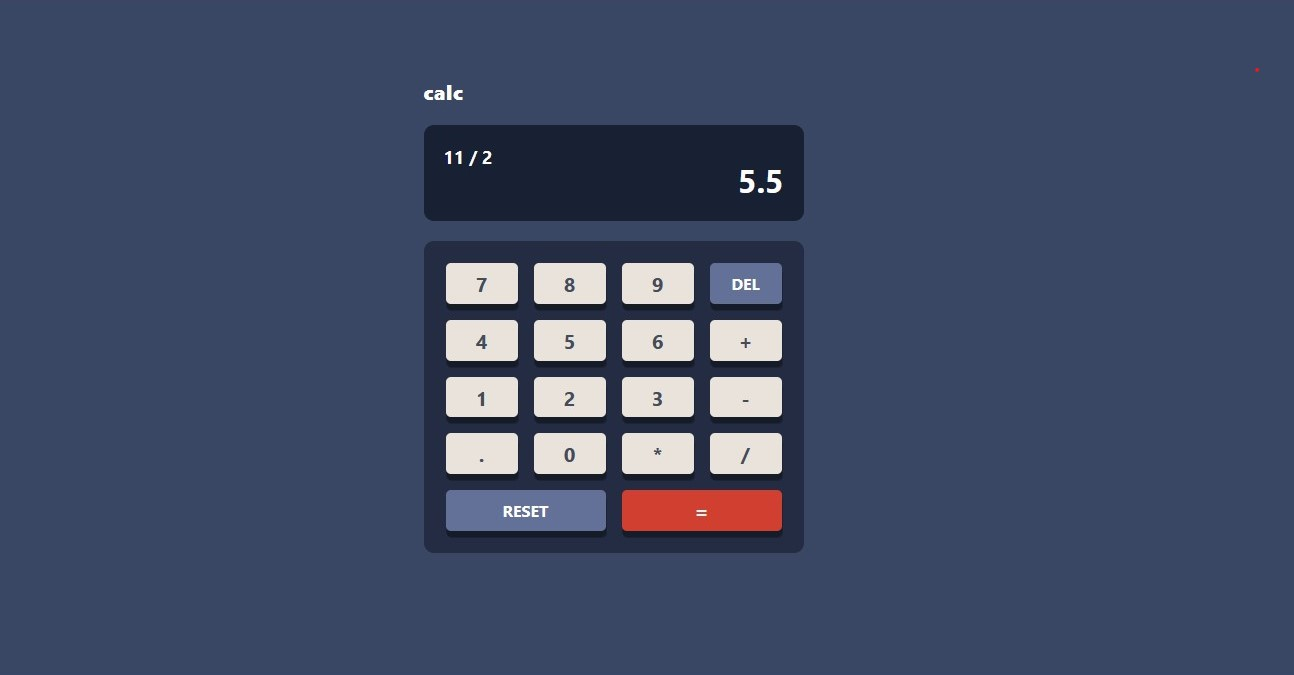
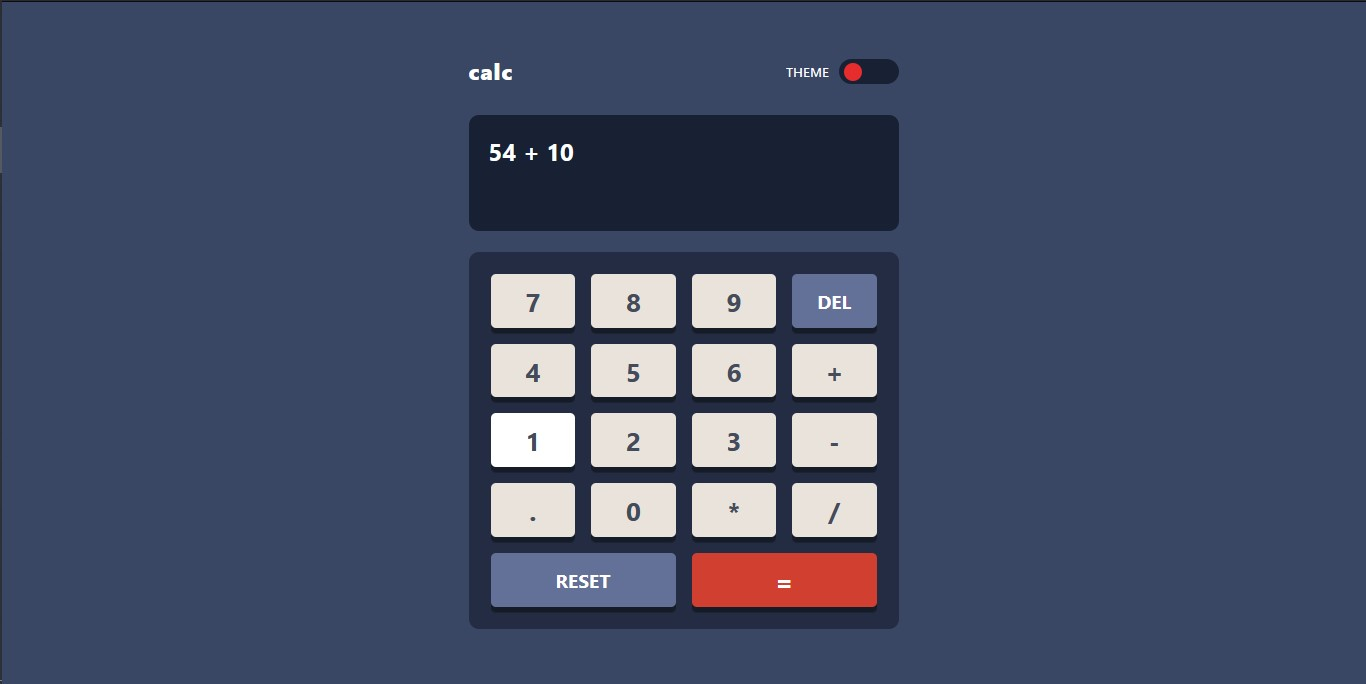
Addeed mobile design and  theme switching

Changed region(s): [[0.3091, 0.0933, 0.6801, 0.9333], [0.5564, 0.0622, 0.6801, 0.1244], [0.0, 0.0, 0.0309, 0.0311]]

diff --git a/src/index.css b/src/index.css
@@ -10,14 +10,19 @@ body {
 }
 
 .view-area {
+  display: flex;
+  flex-direction: column;
+  align-content: center;
+  justify-content: center;
   height: 100vh;
   background-color: hsl(222, 26%, 31%);
   color: white;
+  transition: background-color 0.8s cubic-bezier(0.19, 1, 0.22, 1);
 }
 
 .view-area.light {
   background-color: hsl(0, 0%, 90%);
-  color: hsl(60, 10%, 19%);
+  color: hsl(60, 10%, 10%);
 }
 
 .view-area.neon {
@@ -27,35 +32,52 @@ body {
 
 .calc-container {
   display: flex;
+  margin: auto;
   gap: 1rem;
   flex-wrap: wrap;
   position: relative;
-  margin: auto;
   min-width: 300px;
-  max-width: 400px;
-  height: 500px;
-  top: 70px;
+  max-width: 450px;
+  height: 600px;
   padding: 10px;
 }
 
 .calc-header {
-  display: flex;
-  flex-direction: row;
+  display: grid;
+  grid-template-columns: 2fr 1fr;
   align-items: center;
   width: 100%;
+  margin-bottom: 10px;
+}
+
+.calc-theme-container {
+  display: flex;
+  align-items: center;
+  flex: 1;
+  justify-content: flex-end;
 }
 
 .calc-name {
-  font-size: 20px;
+  font-size: 1.4rem;
   letter-spacing: 0.7px;
   font-weight: 800;
 }
 
+.calc-theme-text {
+  font-size: 0.8rem;
+  padding-right: 10px;
+  text-transform: uppercase;
+  font-weight: 600;
+}
+
 .calc-theme-switcher {
-  width: 100px;
-  height: 30px;
-  border-radius: 5px;
+  display: flex;
+  align-items: center;
+  width: 60px;
+  height: 25px;
+  border-radius: 15px;
   background-color: hsl(224, 36%, 15%);
+  padding: 5px;
 }
 
 .calc-theme-switcher.light {
@@ -74,14 +96,33 @@ body {
   transform: scale(0.9, 0.9);
 }
 
+.calc-theme-toggler {
+  transform: translateY(6%);
+  border-radius: 50%;
+  width: 18px;
+  height: 18px;
+  background-color: rgb(230, 45, 45);
+  transition: all cubic-bezier(0.19, 1, 0.22, 1) 0.6s;
+}
+
+.calc-theme-toggler.light {
+  background-color: hsl(25, 98%, 40%);
+  transform: translateX(90%);
+}
+
+.calc-theme-toggler.neon {
+  transform: translateX(170%);
+  background-color: hsl(176, 100%, 44%);
+}
+
 .calc-display {
   position: relative;
   width: 100%;
   height: 20%;
   background-color: hsl(224, 36%, 15%);
   border-radius: 10px;
-  overflow-x: auto;
-  overflow-y: hidden;
+  /* overflow-x: auto;
+  overflow-y: hidden; */
 }
 
 .calc-display.light {
@@ -93,18 +134,18 @@ body {
   background-color: hsl(268, 71%, 12%);
 }
 
-.calc-display > .calc-display-text {
+.calc-display-text {
   position: absolute;
   left: 20px;
   top: 20px;
-  font-size: 18px;
+  font-size: 1.5rem;
 }
 
-.calc-display > .calc-answer {
+.calc-answer {
   position: absolute;
   bottom: 20px;
   right: 20px;
-  font-size: 32px;
+  font-size: 2.2rem;
   animation: slide-in 0.5s cubic-bezier(0.075, 0.82, 0.165, 1) 1 backwards;
   transition: color ease-in 0.7s;
 }
@@ -131,7 +172,7 @@ body {
   height: 65%;
   width: 100%;
   gap: 1rem;
-  grid-template-columns: repeat(4, minmax(10%, 1fr));
+  grid-template-columns: repeat(4, minmax(20%, 1fr));
   grid-template-rows: repeat(5, 1fr);
   background-color: hsl(223, 31%, 20%);
   border-radius: 10px;
@@ -155,7 +196,7 @@ body {
   box-shadow: 0px 5px rgba(0, 0, 0, 0.2), 0px 6px rgba(10, 10, 10, 0.3);
   background-color: hsl(30, 25%, 89%);
   color: hsl(221, 14%, 31%);
-  font-size: 20px;
+  font-size: 1.6rem;
   cursor: pointer;
   transition: color 0.3s ease-in;
 }
@@ -177,6 +218,11 @@ body {
 
 .num:hover {
   background-color: hsl(200, 40%, 100%);
+}
+
+.num:active {
+  transform: scale(0.95, 0.95);
+  filter: brightness(0.7);
 }
 
 .num.equals {
@@ -212,7 +258,7 @@ body {
   text-transform: uppercase;
   background-color: hsl(225, 21%, 49%);
   color: white;
-  font-size: 16px;
+  font-size: 1.2rem;
 }
 
 .num.del.light {
@@ -239,7 +285,7 @@ body {
 
 .num.reset {
   grid-column: 1 / 3;
-  font-size: 16px;
+  font-size: 1.2rem;
   color: white;
   background-color: hsl(225, 21%, 49%);
   text-transform: uppercase;
@@ -265,4 +311,47 @@ body {
 
 .num.reset.neon:hover {
   background-color: hsl(281, 89%, 45%);
+}
+
+@media screen and (max-width: 450px) {
+  .calc-container {
+    gap: 0.5rem;
+    height: 100vh;
+    min-width: 150px;
+    padding: 7%;
+  }
+  .calc-theme-text {
+    font-size: 0.9rem;
+  }
+  .calc-name {
+    font-size: 1.7rem;
+  }
+  .calc-display {
+    height: 14%;
+  }
+  .calc-display-text {
+    font-size: 1.5em;
+  }
+  .calc-answer {
+    font-size: 2em;
+  }
+
+  .calc-buttons {
+    gap: 1rem;
+    grid-template-columns: repeat(4, minmax(50px, 1fr));
+    grid-template-rows: repeat(5, minmax(40px, 1fr));
+    height: 70%;
+  }
+  .num {
+    font-size: 2em;
+  }
+  .num.del {
+    font-size: 1.4em;
+  }
+  .num.reset {
+    font-size: 1.3em;
+  }
+  .num.equals {
+    font-size: 2em;
+  }
 }

diff --git a/src/App.js b/src/App.js
@@ -16,8 +16,6 @@ function App() {
   const [currentTheme, setCurrentTheme] = React.useState("");
   const [themeCounter, setThemeCounter] = React.useState(0);
 
-  // 0 represent default theme, 1 the light theme and 2 the neon theme;
-
   React.useEffect(() => {
     if (themeCounter % 3 === 0) {
       setCurrentTheme("");
@@ -60,6 +58,8 @@ function App() {
 
   function evaluateExpression() {
     const result = calculateString(currentText).toString();
+    // The statements within the if statement below just trim any unnecessary zeroes
+    // that the user may have entered from the output
     if (result.startsWith("0") && result.length > 1) {
       let trimmedResults = "";
       let trimmed = false;
@@ -93,11 +93,15 @@ function App() {
       <div className={`calc-container`}>
         <div className="calc-header">
           <div className="calc-name">calc</div>
-          <div className="theme-text">Theme</div>
-          <div
-            className={`calc-theme-switcher ${currentTheme}`}
-            onClick={changeTheme}
-          ></div>
+          <div className="calc-theme-container">
+            <div className="calc-theme-text">Theme</div>
+            <div
+              className={`calc-theme-switcher ${currentTheme}`}
+              onClick={changeTheme}
+            >
+              <div className={`calc-theme-toggler ${currentTheme}`}></div>
+            </div>
+          </div>
         </div>
         <div className={`calc-display ${currentTheme}`}>
           <div className={`calc-display-text`}>{currentText}</div>

diff --git a/README.md b/README.md
@@ -29,14 +29,20 @@ Users should be able to:
 
 ### Status
 
-**Partially completed**
+**Almost Completed**
 
-Theme switching is not implemented, but the calculator is functional.
-The styles need to be a bit more refined
+Theme Switching is fully implemented.
+The mobile design is done.
+Styles are a bit more refined.
+
+Intial theme preferrence not checked.
+Accessibility not fully catered for.
 
 ### Screenshot
 
-![First milestone screenshot](./calculator_screenshot.jpg)
+![Theme 1](./calculator_screenshot.jpg)
+![Theme 2](./calculator_screenshot2.jpg)
+![Theme 3](./calculator_screenshot3.jpg)
 
 ### Links
 
@@ -44,7 +50,7 @@ No links at the moment
 
 ## My process
 
-I decided to use React for the UI. For the mathematical operations, I used a common application of stacks: the postfix expression. Now since JS does not offer a stack out of the box, I used the array that it does offer as a stack in the functions that convert the infix expression entered by the user into a postfix one and the one that does the calculation of the newly created postfix expression. This was accomlished by only allowing content to enter and leave the array from its end.
+I decided to use React for the UI. For the mathematical operations, I used a common application of stacks: the postfix expression. Now since JS does not offer a stack out of the box, I used the array that it does offer as a stack in the functions that convert the infix expression entered by the user into a postfix one and the one that does the calculation of the newly created postfix expression. This was accomlished by only allowing content to enter and leave the array from its end. The calculator can observe the order of precedence for the supproted operators.
 
 This solution made it much easier for the user to enter slightly more complex calculations, which may involve multiple operators and operands.
 
